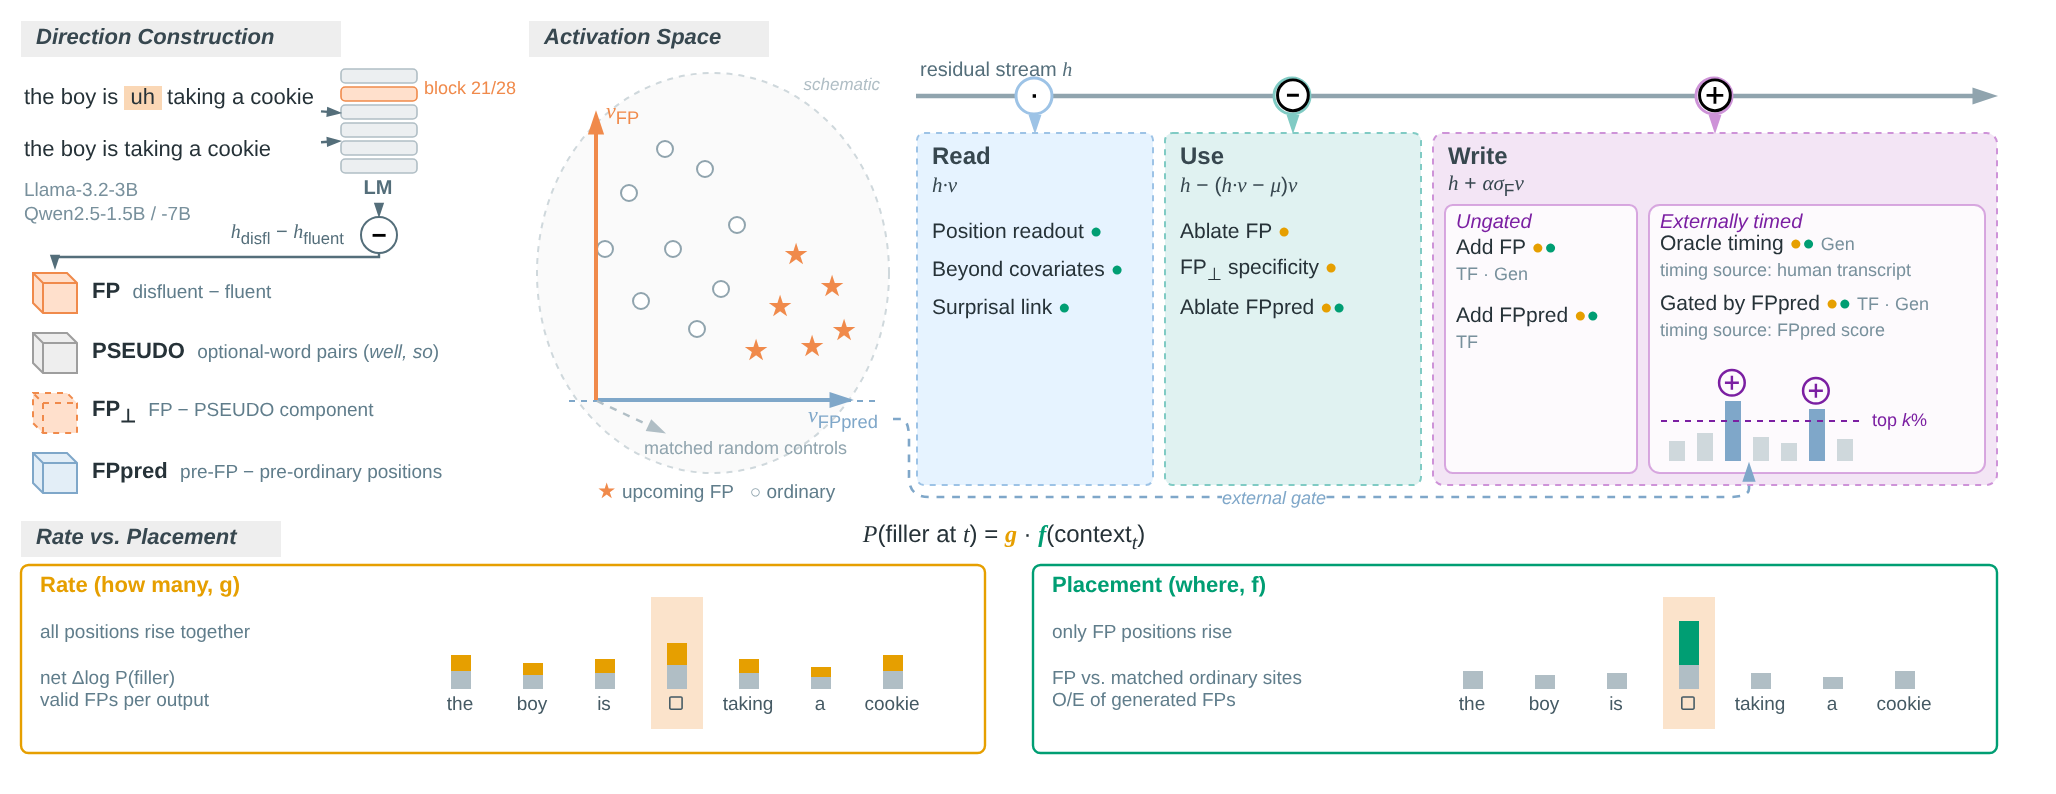
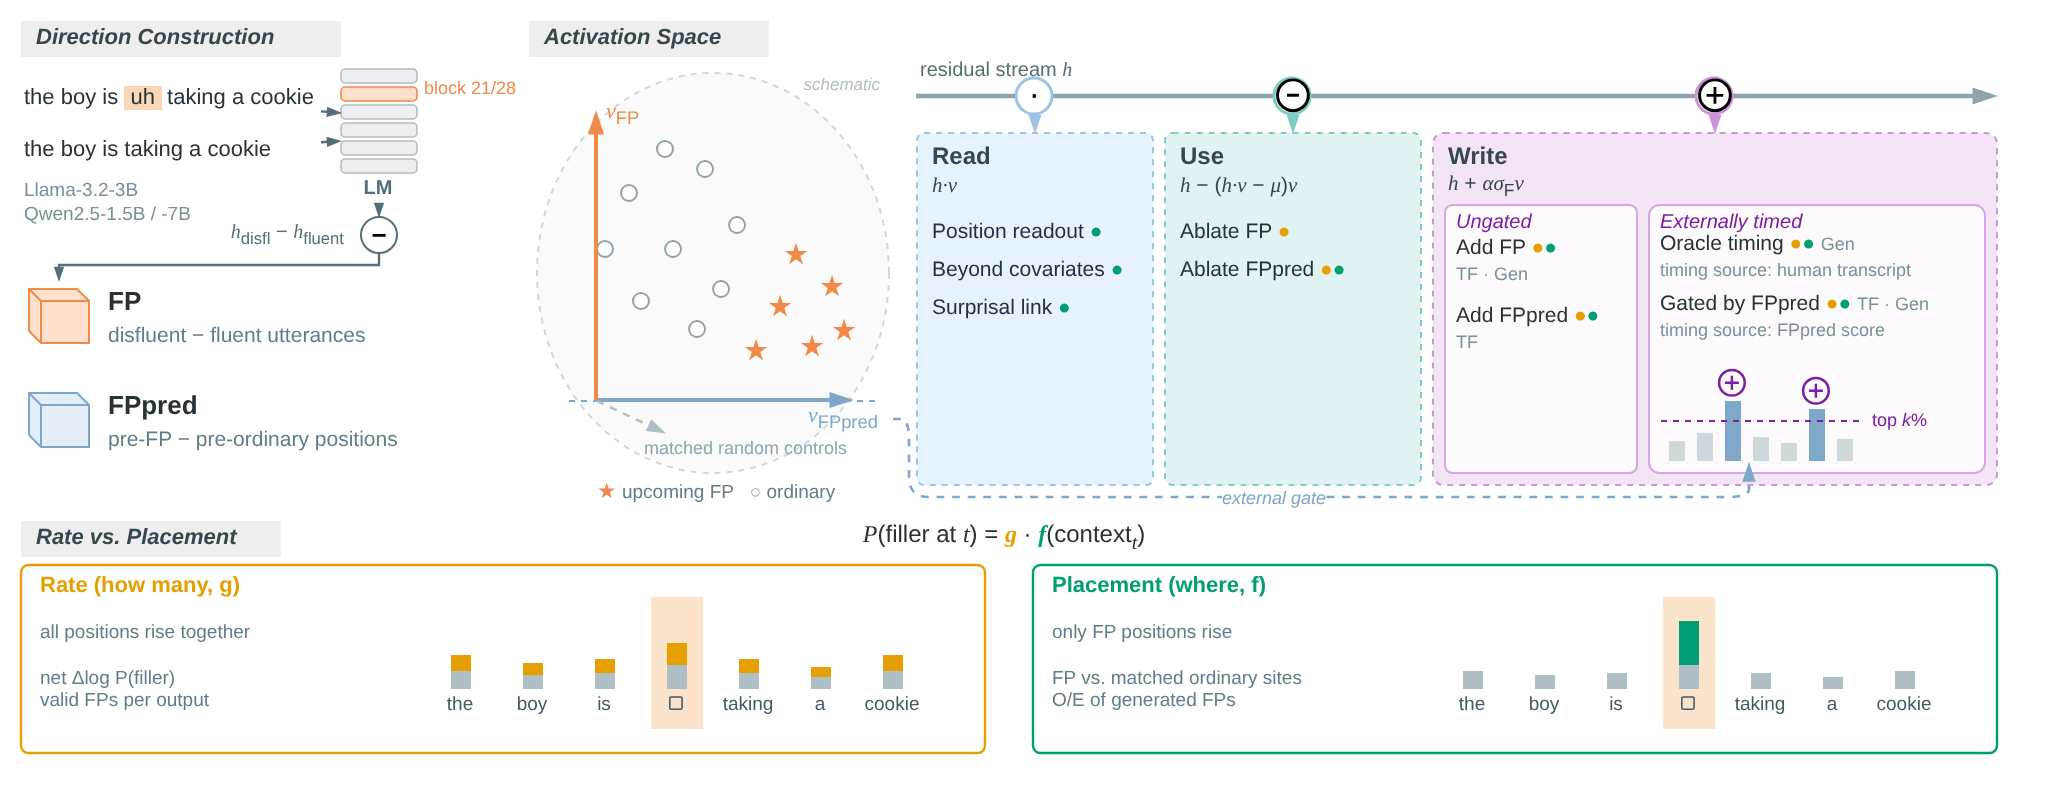
Overview figure: keep only FP and FPpred directions
Claude-Session: https://claude.ai/code/session_01Nr8f45fQSeuNoeBXRTJGZT

Changed region(s): [[0.0, 0.3023, 0.2179, 0.4534], [0.0, 0.4836, 0.2179, 0.6348], [0.5603, 0.3325, 0.6537, 0.3929]]

diff --git a/figures/gen_overview.py b/figures/gen_overview.py
@@ -92,17 +92,15 @@ e(None, minus, FLOW, sp=(stack_x + 19, stack_y + 68))
 text(f"{serif('h')}<sub>disfl</sub> − {serif('h')}<sub>fluent</sub>", 96, 106, 76, 14, 10, "#546E7A", "right")
 
 dirs = [
-    ("FP", WARM_F, WARM_S, "", "disfluent − fluent"),
-    ("PSEUDO", "#EEEEEE", "#9E9E9E", "", "optional-word pairs (<i>well, so</i>)"),
-    ("FP<sub>⊥</sub>", WARM_F, WARM_S, "dashed=1;", "FP − PSEUDO component"),
-    ("FPpred", COOL_F, COOL_S, "", "pre-FP − pre-ordinary positions"),
+    ("FP", WARM_F, WARM_S, "disfluent − fluent utterances"),
+    ("FPpred", COOL_F, COOL_S, "pre-FP − pre-ordinary positions"),
 ]
 cubes = []
-for i, (name, f, s, ex, note) in enumerate(dirs):
-    y = 132 + i * 30
-    cubes.append(v("", 14, y, 22, 20, f"shape=cube;size=5;html=1;fillColor={f};strokeColor={s};{ex}"))
-    text(f"<b>{name}</b>&nbsp; <font color='#607D8B' style='font-size:9.5px'>{note}</font>", 42, y, 200, 20, 11)
-e(minus, None, FLOW + "exitX=0.5;exitY=1;", tp=(25, 130), pts=[(stack_x + 19, 124), (25, 124)])
+for i, (name, f, s, note) in enumerate(dirs):
+    y = 140 + i * 52
+    cubes.append(v("", 12, y, 30, 27, f"shape=cube;size=6;html=1;fillColor={f};strokeColor={s};"))
+    text(f"<b>{name}</b><br><font color='#607D8B' style='font-size:10.5px'>{note}</font>", 50, y - 4, 200, 36, 13)
+e(minus, None, FLOW + "exitX=0.5;exitY=1;", tp=(27, 136), pts=[(stack_x + 19, 128), (27, 128)])
 text("Llama-3.2-3B<br>Qwen2.5-1.5B / -7B", 8, 84, 90, 26, 9.5, "#78909C")
 
 # ---------- B. Activation space ----------
@@ -157,7 +155,7 @@ def items(x, y0, w, rows, dy=19, size=10.5):
 rx, rw = colpos["Read"]
 items(rx + 6, 104, rw - 8, [f"Position readout {P}", f"Beyond covariates {P}", f"Surprisal link {P}"])
 ux, uw = colpos["Use"]
-items(ux + 6, 104, uw - 8, [f"Ablate FP {R}", f"FP<sub>⊥</sub> specificity {R}", f"Ablate FPpred {R}{P}"])
+items(ux + 6, 104, uw - 8, [f"Ablate FP {R}", f"Ablate FPpred {R}{P}"])
 
 wx, ww = colpos["Write"]
 # sub-boxes

diff --git a/figures/overview_prompt.md b/figures/overview_prompt.md
@@ -39,11 +39,9 @@
 | 方向 | 颜色 | 旁注 |
 |---|---|---|
 | FP | 暖色 | disfluent − fluent |
-| PSEUDO | 灰 | optional-word pairs (*well, so*) |
-| FP⊥ | 暖色虚线描边 | FP − PSEUDO component |
 | FPpred | 冷色 | pre-FP − pre-ordinary positions |
 
-- 例句对只画 FP 的构造；PSEUDO、FPpred 只用旁注说明，不另画句子。
+- 例句对只画 FP 的构造；FPpred 只用旁注说明，不另画句子。
 
 ### ② Activation space（中列，参考图的"嵌入空间"）
 
@@ -70,8 +68,8 @@ Write 栏挂钩前放门控菱形 `FPpred high?`，接收来自 ② 的 `externa
 | Read | Use | Write |
 |---|---|---|
 | Position readout ●P | Ablate FP ●R | Add FP `TF` `Gen` ●R●P |
-| Beyond covariates ●P | FP⊥ specificity ●R | Add FPpred `TF` ●R●P |
-| Surprisal link ●P | Ablate FPpred ●R●P | Oracle timing `Gen` ●R●P |
+| Beyond covariates ●P | Ablate FPpred ●R●P | Add FPpred `TF` ●R●P |
+| Surprisal link ●P | | Oracle timing `Gen` ●R●P |
 | | | Gated by FPpred `TF` `Gen` ●R●P |
 
 ### ④ Rate vs. Placement（底部条，横跨 Use + Write）
@@ -103,3 +101,4 @@ Write 栏挂钩前放门控菱形 `FPpred high?`，接收来自 ② 的 `externa
 4. 实验列表只保留主线短名；对照仅保留"FP vs. matched ordinary sites"（④）和一个统一的随机控制标记（②）。
 5. ② 中 v_FP 与 v_FPpred 画成正交，标 `schematic`。
 6. 例句自拟。
+7. 图中只保留 FP 与 FPpred 两个方向；PSEUDO / FP⊥ 及其特异性检验移到图注和正文。
